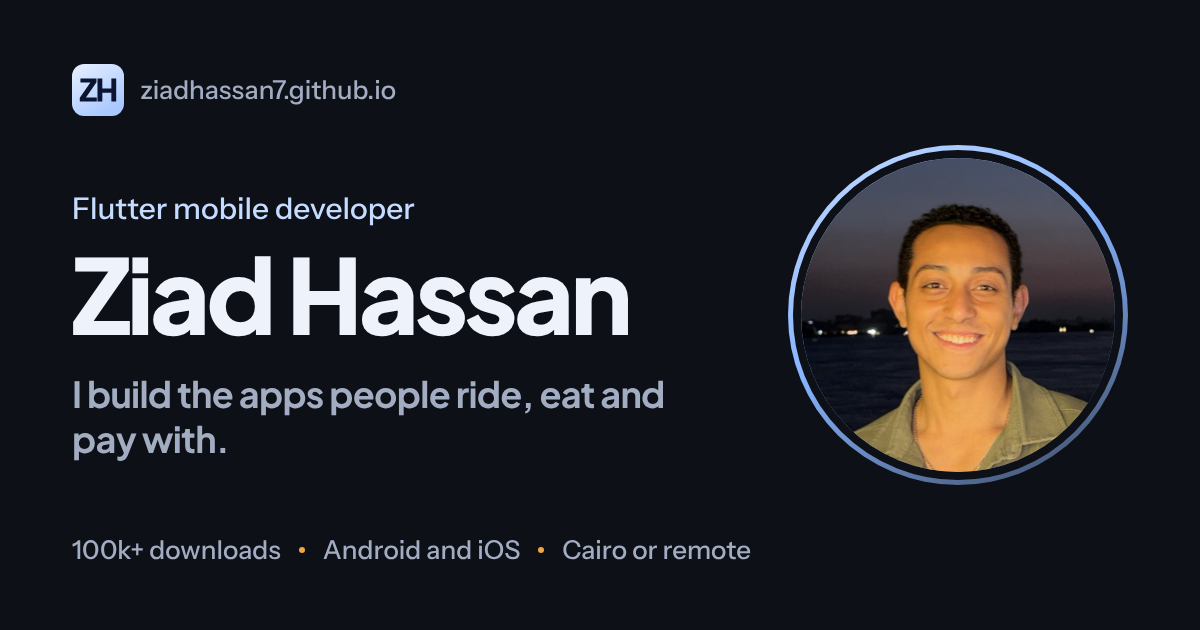
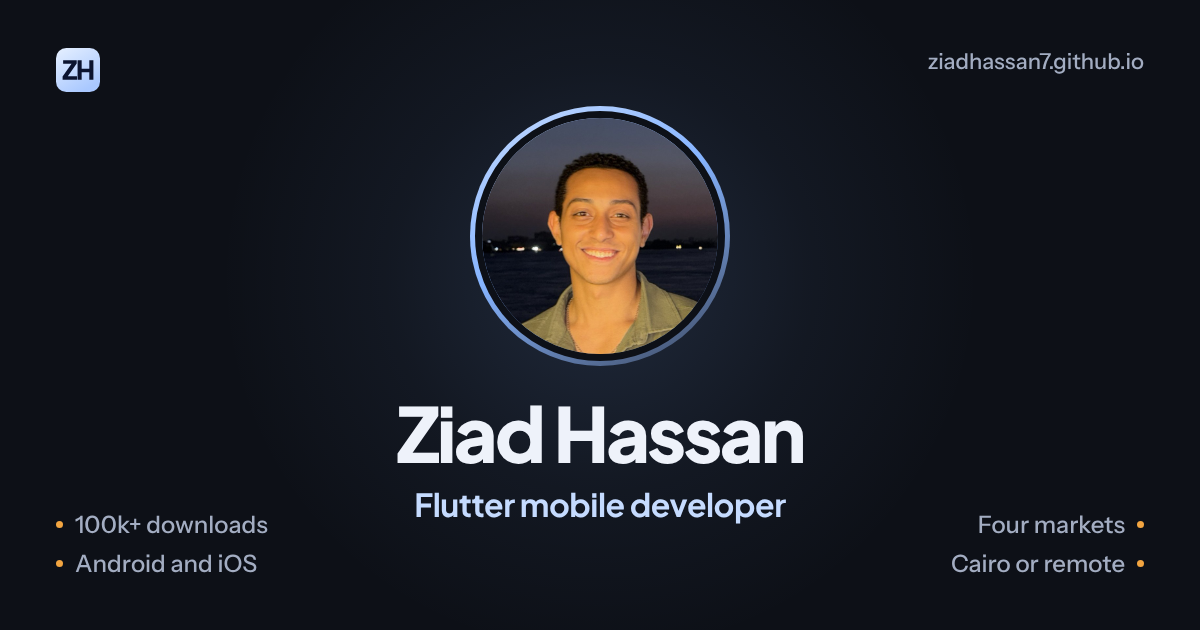
Square-safe link preview image
Photo, name and role sit in the centre square so the preview still reads when an app crops it.

Claude-Session: https://claude.ai/code/session_017s7JFqqEohfegow6EvWWC4

diff --git a/index.html b/index.html
@@ -9,16 +9,16 @@
 <meta property="og:description" content="Ride-hailing, food delivery and payment apps with 100k+ downloads across four markets.">
 <meta property="og:type" content="website">
 <meta property="og:url" content="https://ziadhassan7.github.io/">
-<meta property="og:image" content="https://ziadhassan7.github.io/og-image.png">
+<meta property="og:image" content="https://ziadhassan7.github.io/og-image.png?v=2">
 <meta property="og:image:type" content="image/png">
 <meta property="og:image:width" content="1200">
 <meta property="og:image:height" content="630">
-<meta property="og:image:alt" content="Ziad Hassan, Flutter mobile developer. I build the apps people ride, eat and pay with.">
+<meta property="og:image:alt" content="Ziad Hassan, Flutter mobile developer">
 <meta property="og:site_name" content="Ziad Hassan">
 <meta name="twitter:card" content="summary_large_image">
 <meta name="twitter:title" content="Ziad Hassan, Flutter mobile developer">
 <meta name="twitter:description" content="Ride-hailing, food delivery and payment apps with 100k+ downloads across four markets.">
-<meta name="twitter:image" content="https://ziadhassan7.github.io/og-image.png">
+<meta name="twitter:image" content="https://ziadhassan7.github.io/og-image.png?v=2">
 <meta name="theme-color" content="#0D1017">
 <link rel="icon" href="favicon-32.png" sizes="32x32" type="image/png">
 <link rel="icon" href="favicon.svg" type="image/svg+xml">

diff --git a/packages.html b/packages.html
@@ -9,16 +9,16 @@
 <meta property="og:description" content="Saved-card payments for ngenius_flutter_sdk, plus my own packages on pub.dev.">
 <meta property="og:type" content="website">
 <meta property="og:url" content="https://ziadhassan7.github.io/packages.html">
-<meta property="og:image" content="https://ziadhassan7.github.io/og-image.png">
+<meta property="og:image" content="https://ziadhassan7.github.io/og-image.png?v=2">
 <meta property="og:image:type" content="image/png">
 <meta property="og:image:width" content="1200">
 <meta property="og:image:height" content="630">
-<meta property="og:image:alt" content="Ziad Hassan, Flutter mobile developer. I build the apps people ride, eat and pay with.">
+<meta property="og:image:alt" content="Ziad Hassan, Flutter mobile developer">
 <meta property="og:site_name" content="Ziad Hassan">
 <meta name="twitter:card" content="summary_large_image">
 <meta name="twitter:title" content="Flutter packages, Ziad Hassan">
 <meta name="twitter:description" content="Saved-card payments for ngenius_flutter_sdk, plus my own packages on pub.dev.">
-<meta name="twitter:image" content="https://ziadhassan7.github.io/og-image.png">
+<meta name="twitter:image" content="https://ziadhassan7.github.io/og-image.png?v=2">
 <meta name="theme-color" content="#0D1017">
 <link rel="icon" href="favicon-32.png" sizes="32x32" type="image/png">
 <link rel="icon" href="favicon.svg" type="image/svg+xml">
